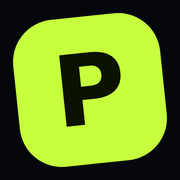
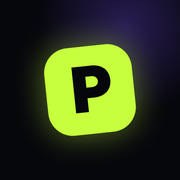
Pumpr installable comme une app (manifest, icônes 192/512)
Claude-Session: https://claude.ai/code/session_012gL92PfVKEKGnr5jDXdhbt

diff --git a/desk/index.html b/desk/index.html
@@ -7,6 +7,10 @@
 <link rel="icon" href="../assets/img/favicon.svg" type="image/svg+xml">
 <link rel="icon" href="../assets/img/favicon-32.png" sizes="32x32" type="image/png">
 <link rel="apple-touch-icon" href="../assets/img/apple-touch-icon.png">
+<link rel="manifest" href="../manifest.webmanifest">
+<meta name="apple-mobile-web-app-title" content="Pumpr">
+<meta name="apple-mobile-web-app-capable" content="yes">
+<meta name="apple-mobile-web-app-status-bar-style" content="black-translucent">
 <meta name="theme-color" content="#06070c">
 <meta property="og:type" content="website">
 <meta property="og:site_name" content="Pumpr">
@@ -19,7 +23,7 @@
 <meta property="og:image:alt" content="Pumpr, le desk de trading en français">
 <meta property="og:locale" content="fr_FR">
 <meta name="twitter:card" content="summary_large_image">
-<link rel="stylesheet" href="../assets/fonts.css?v=202610301743">
+<link rel="stylesheet" href="../assets/fonts.css?v=202610301825">
 <style>
 /* Layout : fond en dégradé vivant, panneaux de verre arrondis. Colonne de travail à gauche (synthèse, graphique, journal…), la watchlist ancrée à droite. */
 :root{
@@ -294,10 +298,10 @@ body.lite{background:radial-gradient(ellipse 70% 50% at 40% -10%,rgba(69,217,240
 </style>
 
 
-<link rel="stylesheet" href="../assets/pumpr.css?v=202610301743">
-<link rel="stylesheet" href="gate.css?v=202610301743">
-<link rel="stylesheet" href="theme.css?v=202610301743">
-<link rel="stylesheet" href="mobile.css?v=202610301743">
+<link rel="stylesheet" href="../assets/pumpr.css?v=202610301825">
+<link rel="stylesheet" href="gate.css?v=202610301825">
+<link rel="stylesheet" href="theme.css?v=202610301825">
+<link rel="stylesheet" href="mobile.css?v=202610301825">
 </head>
 <body>
 <div class="aurora" aria-hidden="true"><i></i><i></i><i></i></div>
@@ -628,10 +632,10 @@ applyAccent();applyLayout();greet();renderWatch();select(sel);renderAll();widget
 setInterval(greet,60000);
 };
 </script>
-<script src="../config.js?v=202610301743"></script>
-<script src="../assets/pumpr.js?v=202610301743"></script>
-<script src="csv.js?v=202610301743"></script>
-<script src="chart.js?v=202610301743"></script>
-<script src="gate.js?v=202610301743"></script>
+<script src="../config.js?v=202610301825"></script>
+<script src="../assets/pumpr.js?v=202610301825"></script>
+<script src="csv.js?v=202610301825"></script>
+<script src="chart.js?v=202610301825"></script>
+<script src="gate.js?v=202610301825"></script>
 </body>
 </html>

diff --git a/index.html b/index.html
@@ -7,6 +7,7 @@
 <link rel="icon" href="assets/img/favicon.svg" type="image/svg+xml">
 <link rel="icon" href="assets/img/favicon-32.png" sizes="32x32" type="image/png">
 <link rel="apple-touch-icon" href="assets/img/apple-touch-icon.png">
+<link rel="manifest" href="manifest.webmanifest">
 <meta name="theme-color" content="#06070c">
 <meta property="og:type" content="website">
 <meta property="og:site_name" content="Pumpr">
@@ -20,8 +21,8 @@
 <meta property="og:locale" content="fr_FR">
 <meta name="twitter:card" content="summary_large_image">
 <meta name="description" content="Pumpr : journal de trades, calcul du risque, graphiques et cours crypto en direct dans un seul desk. Paiement unique.">
-<link rel="stylesheet" href="assets/fonts.css?v=202610301743">
-<link rel="stylesheet" href="assets/pumpr.css?v=202610301743">
+<link rel="stylesheet" href="assets/fonts.css?v=202610301825">
+<link rel="stylesheet" href="assets/pumpr.css?v=202610301825">
 <style>
 html{scroll-behavior:smooth}
 body{margin:0;background:var(--pz-bg);color:var(--pz-text);font:500 16px/1.6 var(--pz-body);-webkit-font-smoothing:antialiased;overflow-x:hidden}
@@ -350,8 +351,8 @@ footer nav a:hover{color:var(--pz-text)}
   </div>
 </div>
 
-<script src="config.js?v=202610301743"></script>
-<script src="assets/pumpr.js?v=202610301743"></script>
+<script src="config.js?v=202610301825"></script>
+<script src="assets/pumpr.js?v=202610301825"></script>
 <script>
 (()=>{
 "use strict";

diff --git a/retractation.html b/retractation.html
@@ -8,8 +8,8 @@
 <link rel="icon" href="assets/img/favicon-32.png" sizes="32x32" type="image/png">
 <link rel="apple-touch-icon" href="assets/img/apple-touch-icon.png">
 <meta name="theme-color" content="#06070c">
-<link rel="stylesheet" href="assets/fonts.css?v=202610301743">
-<link rel="stylesheet" href="assets/pumpr.css?v=202610301743">
+<link rel="stylesheet" href="assets/fonts.css?v=202610301825">
+<link rel="stylesheet" href="assets/pumpr.css?v=202610301825">
 <style>
 body{margin:0;background:var(--pz-bg);color:var(--pz-text);font:500 16px/1.65 var(--pz-body)}
 .glow{position:fixed;inset:-20% -10% auto;height:120vh;pointer-events:none;z-index:0;background:radial-gradient(40% 35% at 75% 10%,rgba(139,92,246,.28),transparent 70%),radial-gradient(35% 30% at 15% 20%,rgba(198,255,61,.14),transparent 70%),radial-gradient(30% 25% at 60% 60%,rgba(255,79,216,.10),transparent 70%)}
@@ -56,8 +56,8 @@ textarea.pz-field{min-height:110px;resize:vertical}
 
   <p class="info">Une question ? Écris au contact indiqué dans les <a href="mentions-legales.html#mentions">mentions légales</a>.</p>
 </div>
-<script src="config.js?v=202610301743"></script>
-<script src="assets/pumpr.js?v=202610301743"></script>
+<script src="config.js?v=202610301825"></script>
+<script src="assets/pumpr.js?v=202610301825"></script>
 <script>
 (()=>{
 const $=s=>document.querySelector(s);

diff --git a/admin/index.html b/admin/index.html
@@ -9,8 +9,8 @@
 <link rel="icon" href="../assets/img/favicon-32.png" sizes="32x32" type="image/png">
 <link rel="apple-touch-icon" href="../assets/img/apple-touch-icon.png">
 <meta name="theme-color" content="#06070c">
-<link rel="stylesheet" href="../assets/fonts.css?v=202610301743">
-<link rel="stylesheet" href="../assets/pumpr.css?v=202610301743">
+<link rel="stylesheet" href="../assets/fonts.css?v=202610301825">
+<link rel="stylesheet" href="../assets/pumpr.css?v=202610301825">
 <style>
 body{margin:0;background:var(--pz-bg);color:var(--pz-text);font:500 15px/1.55 var(--pz-body);-webkit-font-smoothing:antialiased}
 .bgx{position:fixed;inset:0;pointer-events:none;background:radial-gradient(40% 35% at 85% 0%,rgba(139,92,246,.18),transparent 70%),radial-gradient(35% 30% at 5% 0%,rgba(198,255,61,.08),transparent 70%)}
@@ -91,8 +91,8 @@ tbody tr:hover{background:rgba(255,255,255,.025)}
 </div>
 <div class="pz-toast" id="toast" role="status"></div>
 
-<script src="../config.js?v=202610301743"></script>
-<script src="../assets/pumpr.js?v=202610301743"></script>
+<script src="../config.js?v=202610301825"></script>
+<script src="../assets/pumpr.js?v=202610301825"></script>
 <script>
 (()=>{
 "use strict";

diff --git a/decouvrir.html b/decouvrir.html
@@ -20,8 +20,8 @@
 <meta property="og:image:alt" content="Pumpr, le desk de trading en français">
 <meta property="og:locale" content="fr_FR">
 <meta name="twitter:card" content="summary_large_image">
-<link rel="stylesheet" href="assets/fonts.css?v=202610301743">
-<link rel="stylesheet" href="assets/pumpr.css?v=202610301743">
+<link rel="stylesheet" href="assets/fonts.css?v=202610301825">
+<link rel="stylesheet" href="assets/pumpr.css?v=202610301825">
 <style>
 html{scroll-behavior:smooth}
 body{margin:0;background:var(--pz-bg);color:var(--pz-text);font:500 16px/1.6 var(--pz-body);-webkit-font-smoothing:antialiased;overflow-x:hidden}

diff --git a/mentions-legales.html b/mentions-legales.html
@@ -8,8 +8,8 @@
 <link rel="icon" href="assets/img/favicon-32.png" sizes="32x32" type="image/png">
 <link rel="apple-touch-icon" href="assets/img/apple-touch-icon.png">
 <meta name="theme-color" content="#06070c">
-<link rel="stylesheet" href="assets/fonts.css?v=202610301743">
-<link rel="stylesheet" href="assets/pumpr.css?v=202610301743">
+<link rel="stylesheet" href="assets/fonts.css?v=202610301825">
+<link rel="stylesheet" href="assets/pumpr.css?v=202610301825">
 <style>
 html{scroll-behavior:smooth}
 body{margin:0;background:var(--pz-bg);color:var(--pz-text);font:500 16px/1.7 var(--pz-body)}
